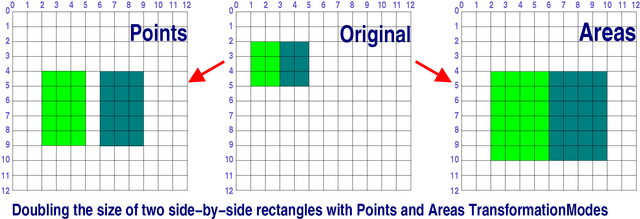
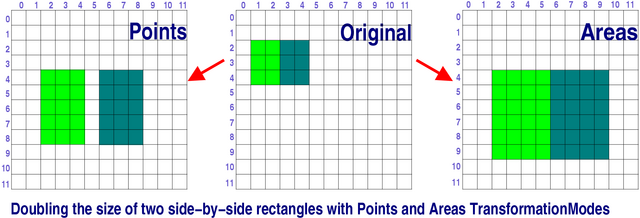
corrected diagram + qdoc fixes
[git-p4: depot-paths = "//depot/qt/main/": change = 67162]

diff --git a/src/kernel/qmetaobject.cpp b/src/kernel/qmetaobject.cpp
@@ -775,6 +775,7 @@ QMetaObject *QMetaObject::metaObject( const char *class_name )
     return 0;
 }
 
+/*! \internal */
 bool QMetaObject::hasMetaObject( const char *class_name )
 {
     if ( !qt_metaobjects )
@@ -1051,9 +1052,9 @@ bool QMetaProperty::isEnumType() const
 
 /*!  Returns TRUE if the property is designable for object \a o;
     otherwise returns FALSE.
-    
+
     If no object \a o is given, the function returns a static
-    approximation. 
+    approximation.
  */
 bool QMetaProperty::designable( QObject* o ) const
 {
@@ -1068,9 +1069,9 @@ bool QMetaProperty::designable( QObject* o ) const
 /*!
     Returns TRUE if the property is scriptable for object \a o;
     otherwise returns FALSE.
-    
+
     If no object \a o is given, the function returns a static
-    approximation. 
+    approximation.
  */
 bool QMetaProperty::scriptable( QObject* o ) const
 {
@@ -1083,9 +1084,9 @@ bool QMetaProperty::scriptable( QObject* o ) const
 /*!
     Returns TRUE if the property shall be stored for object \a o;
     otherwise returns FALSE.
-    
+
     If no object \a o is given, the function returns a static
-    approximation. 
+    approximation.
  */
 bool QMetaProperty::stored( QObject* o ) const
 {

diff --git a/tools/designer/examples/metric/metric.ui.h b/tools/designer/examples/metric/metric.ui.h
@@ -31,11 +31,11 @@ void ConversionForm::convert()
 	Feet,
 	Inches
     };
-    
+
     // Retrieve the input
     double input = numberLineEdit->text().toDouble();
     double scaledInput = input;
-    
+
     // internally convert the input to millimeters
     switch ( fromComboBox->currentItem() ) {
     case Kilometers:
@@ -48,10 +48,10 @@ void ConversionForm::convert()
 	scaledInput *= 10;
 	break;
     }
-    
+
     //convert to inches
     double result = scaledInput * 0.0393701;
-    
+
     switch ( toComboBox->currentItem() ) {
     case Miles:
 	result /= 63360;
@@ -63,10 +63,10 @@ void ConversionForm::convert()
 	result /= 12;
 	break;
     }
-    
+
     // set the result
-    resultTextLabel->setText( QString::number( result, 'f', decimalsSpinBox->value() ) );
-    
-   numberLineEdit->setText( QString::number( input, 'f', decimalsSpinBox->value() ) );
+    int decimals = decimalsSpinBox->value();
+    resultTextLabel->setText( QString::number( result, 'f', decimals ) );
+    numberLineEdit->setText( QString::number( input, 'f', decimals ) );
 }
 
